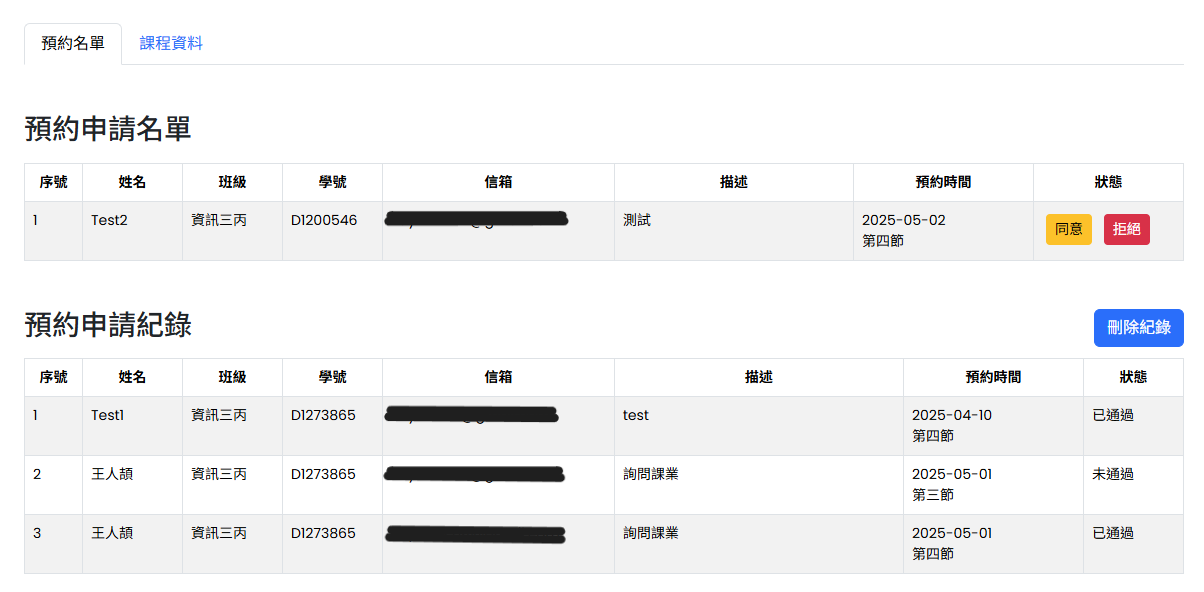
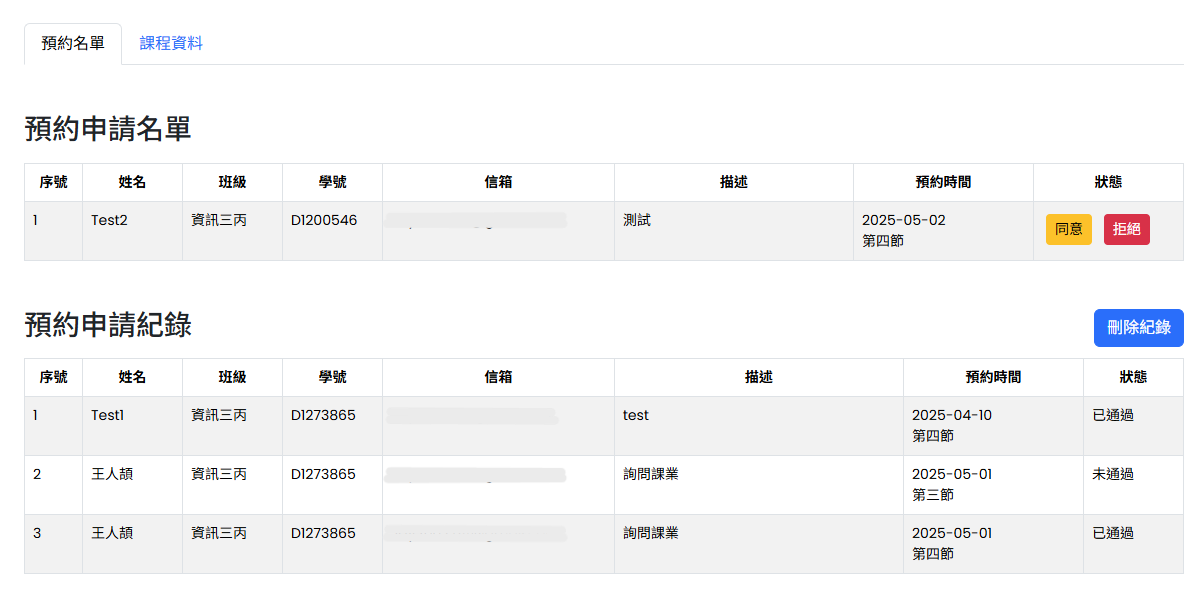
Update README.md

diff --git a/README.md b/README.md
@@ -6,10 +6,12 @@
 </p>
 
 <p align="center">
+    <img src="https://img.shields.io/badge/HTML5-E34F26?style=for-the-badge&logo=html5&logoColor=white">
     <img src="https://img.shields.io/badge/PHP-777BB4?style=for-the-badge&logo=php&logoColor=white">
     <img src="https://img.shields.io/badge/MySQL-005C84?style=for-the-badge&logo=mysql&logoColor=white">
-    <img src="https://img.shields.io/badge/CSS3-1572B6?style=for-the-badge&logo=css3&logoColor=white">
     <img src="https://img.shields.io/badge/JavaScript-323330?style=for-the-badge&logo=javascript&logoColor=F7DF1E">
+    <img src="https://img.shields.io/badge/CSS3-1572B6?style=for-the-badge&logo=css3&logoColor=white">
+    <img src="https://img.shields.io/badge/Bootstrap-563D7C?style=for-the-badge&logo=bootstrap&logoColor=white">
 </p>
 
 ### 前端頁面
@@ -21,18 +23,15 @@
 ### 預約系統
 使用PHPMailer傳送預約申請通知信件
 
-- 預約表單填寫 & 後台申請名單顯示
-    <details>
-        <summary>查看圖片</summary>
-        <img src="assets/appointment.png" alt="預約表單" width="700"height="400">
-        <img src="assets/record.png" alt="預約紀錄" width="700" height="400">
-    </details>
+預約表單填寫
+![預約表單](assets/appointment.png)
 
-- Gmail預約通知
-    <details>
-        <summary>查看圖片</summary>
-        <p align="">
-            <img src="assets/mail1.jpg" alt="系統架構圖" width="300" height="300">
-            <img src="assets/mail2.jpg" alt="系統架構圖" width="300" height="300">
-        </p>
-    </details>
+後台申請名單顯示
+![表單後台](assets/record.png)
+
+
+Gmail預約通知
+<p align="center">
+    <img src="assets/mail1.jpg">
+    <img src="assets/mail2.jpg">
+</p>
